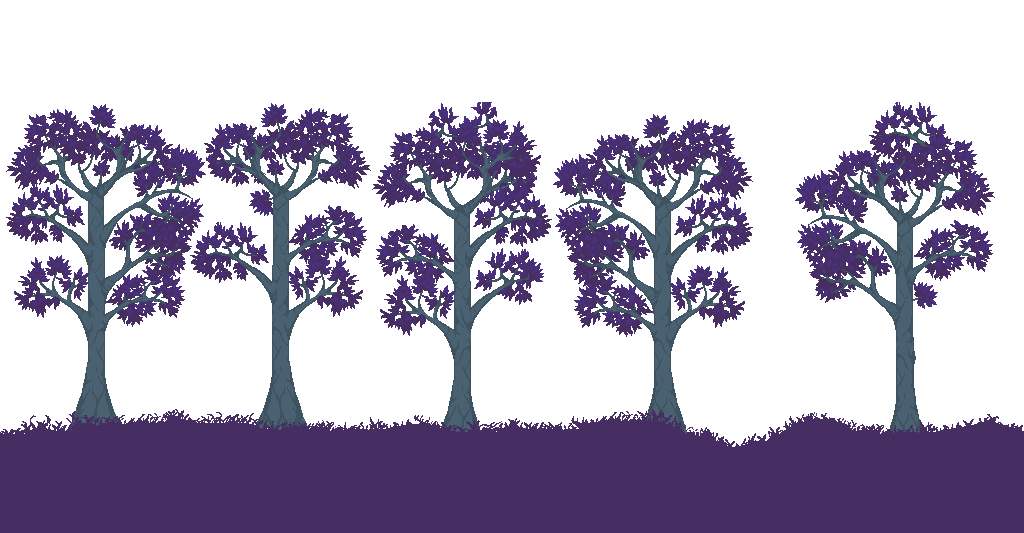
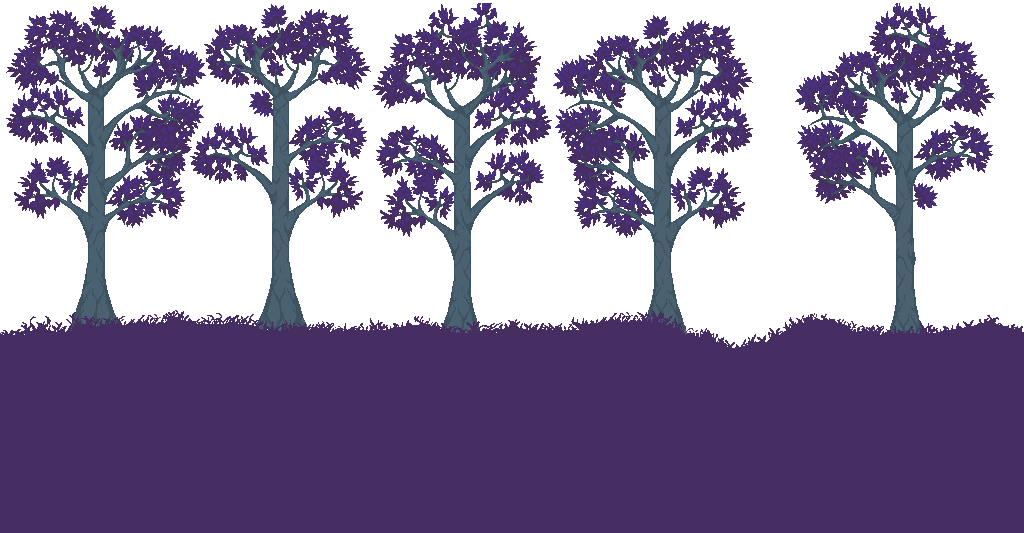
+ Chaos biome background adjustments

diff --git a/_Content/Inferno/World/Biomes/InfernoBiome.cs b/_Content/Inferno/World/Biomes/InfernoBiome.cs
@@ -3,15 +3,16 @@ using AAModClassic._Content.Inferno._PostMoonlord.NPCs.__BossAkuma;
 using AAModClassic._Content.Inferno._PostMoonlord.NPCs.__BossAkuma.Awakened;
 using AAModClassic._Content.Inferno._PostMoonlord.NPCs.__BossAkuma.Awakened.Skies;
 using AAModClassic._Content.Inferno.World.Biomes.Waters;
-using AAModClassic._Content.Mire._PostMoonlord.NPCs.__BossYamata.Awakened.Skies;
 using AAModClassic.Base.BaseMod.Base;
 using AAModClassic.Music;
 using Microsoft.Xna.Framework;
 using Microsoft.Xna.Framework.Graphics;
 using ReLogic.Content;
 using System;
+using System.Reflection;
 using Terraria;
 using Terraria.GameContent;
+using Terraria.GameInput;
 using Terraria.Graphics.Effects;
 using Terraria.Graphics.Shaders;
 using Terraria.ModLoader;
@@ -24,6 +25,15 @@ namespace AAModClassic._Content.Inferno.World.Biomes
         public override string MapBackground => "AAModClassic/_Content/Inferno/World/Biomes/Backgrounds/InfernoMap";
 
         public override string BackgroundPath => "AAModClassic/_Content/Inferno/World/Biomes/Backgrounds/InfernoMap";
+
+        internal static FieldInfo BackgroundTopY = null;
+
+        public override void Load()
+        {
+            var field = typeof(Main).GetField("bgTopY", BindingFlags.Instance | BindingFlags.NonPublic);
+            if (field != null)
+                BackgroundTopY = field;
+        }
 
         public override bool IsBiomeActive(Player player)
         {
@@ -312,17 +322,99 @@ namespace AAModClassic._Content.Inferno.World.Biomes
 
         public override int ChooseFarTexture()
         {
-            return BackgroundTextureLoader.GetBackgroundSlot(Mod, "_Content/Inferno/World/Biomes/Backgrounds/InfernoBG");
+            return -1;// BackgroundTextureLoader.GetBackgroundSlot(Mod, "_Content/Inferno/World/Biomes/Backgrounds/InfernoBG");
         }
 
         public override int ChooseCloseTexture(ref float scale, ref double parallax, ref float a, ref float b)
         {
-            return base.ChooseCloseTexture(ref scale, ref parallax, ref a, ref b);
+            return BackgroundTextureLoader.GetBackgroundSlot(Mod, "_Content/Inferno/World/Biomes/Backgrounds/InfernoBG");
         }
 
         public override int ChooseMiddleTexture()
         {
-            return base.ChooseMiddleTexture();
+            return -1;//BackgroundTextureLoader.GetBackgroundSlot(Mod, "_Content/Inferno/World/Biomes/Backgrounds/InfernoBG");
+        }
+
+        public override bool PreDrawCloseBackground(SpriteBatch spriteBatch)
+        {
+            float num = Math.Min(PlayerInput.RealScreenHeight, Main.LogicCheckScreenHeight);
+            float num2 = Main.screenPosition.Y + (float)(Main.screenHeight / 2) - num / 2f;
+            float scAdj = (float)(Main.worldSurface * 16.0) / (num2 + num);
+            float num3 = (float)Main.maxTilesY * 0.15f * 16f;
+            num3 -= num2;
+            if (num3 < 0f)
+                num3 = 0f;
+
+            num3 *= 0.00025f;
+            float num4 = num3 * num3;
+            scAdj *= 0.45f - num4;
+            if (Main.maxTilesY <= 1200)
+                scAdj *= -500f;
+            else if (Main.maxTilesY <= 1800)
+                scAdj *= -300f;
+            else
+                scAdj *= -150f;
+
+            float screenOff = Main.screenHeight - 600f;
+
+            int textureSlot = BackgroundTextureLoader.GetBackgroundSlot(AAMod.instance, "_Content/Inferno/World/Biomes/Backgrounds/InfernoBG");
+
+            if (textureSlot < 0 || textureSlot >= TextureAssets.Background.Length)
+            {
+                return false;
+            }
+
+            double surface = Main.worldSurface == 0 ? 1 : Main.worldSurface;
+            float numagicNumberSetup = Main.screenPosition.Y + (float)(Main.screenHeight / 2) - 600f;
+            double backgroundTopMagicNumber = (0f - numagicNumberSetup + screenOff / 2f) / (surface * 16f);
+
+            int pushBGTopHack = Main.gameMenu ? 180 : 0;
+            int bump = 30;
+            if (Main.gameMenu)
+                bump = 0;
+
+            if (WorldGen.drunkWorldGen)
+                bump = -180;
+            pushBGTopHack += bump;
+
+            //Custom: bgScale, textureslot, patallaz, these 2 numbers...., Top and Start?
+            Main.instance.LoadBackground(textureSlot);
+
+            float bgScale = 1.85f * 2;
+
+            double bgParallax = 0.15;
+            int bgWidthScaled = (int)(382 * bgScale);
+            int bgStartX = (int)(-Math.IEEERemainder((double)Main.screenPosition.X * bgParallax, bgWidthScaled) - (double)(bgWidthScaled / 2));
+            if (bgWidthScaled == 0)
+                bgWidthScaled = 1024;
+
+            int bgLoops = Main.screenWidth / bgWidthScaled + 2;
+
+            bgScale = 1f;
+            int bgTopY = (int)(backgroundTopMagicNumber * 1300.0 + 1090.0) + (int)scAdj + pushBGTopHack;
+            if (Main.gameMenu)
+                bgTopY = 100 + pushBGTopHack;
+
+            bgTopY -= 40;
+
+            if (Main.screenPosition.Y >= Main.worldSurface * 16.0 + 16.0)
+                return false;
+
+            for (int k = 0; k < bgLoops; k++)
+            {
+                spriteBatch.Draw(
+                    TextureAssets.Background[textureSlot].Value,
+                    new Vector2(bgStartX + bgWidthScaled * k, bgTopY),
+                    new Rectangle(0, 0, Main.backgroundWidth[textureSlot], Main.backgroundHeight[textureSlot]),
+                    Main.ColorOfTheSkies * Main.bgAlphaFarBackLayer[Slot],
+                    0f,
+                    default,
+                    bgScale,
+                    SpriteEffects.None,
+                    0f
+                );
+            }
+            return false;
         }
     }
 

diff --git a/_Content/Mire/World/Biomes/MireBiome.cs b/_Content/Mire/World/Biomes/MireBiome.cs
@@ -11,6 +11,7 @@ using ReLogic.Content;
 using System;
 using Terraria;
 using Terraria.GameContent;
+using Terraria.GameInput;
 using Terraria.Graphics.Effects;
 using Terraria.Graphics.Shaders;
 using Terraria.ID;
@@ -184,7 +185,7 @@ namespace AAModClassic._Content.Mire.World.Biomes
 
     public class MireSurfaceBgStyle : ModSurfaceBackgroundStyle
     {
-        readonly ScreenFog mireBGFog = new ScreenFog(true);
+        readonly ScreenFog mireBGFog = new(true);
 
         public override void ModifyFarFades(float[] fades, float transitionSpeed)
         {
@@ -211,11 +212,11 @@ namespace AAModClassic._Content.Mire.World.Biomes
 
         public override int ChooseFarTexture()
         {
-            return BackgroundTextureLoader.GetBackgroundSlot(Mod, "_Content/Mire/World/Biomes/Backgrounds/MireBiome_SurfaceBackground");
+            return -1;// BackgroundTextureLoader.GetBackgroundSlot(Mod, "_Content/Mire/World/Biomes/Backgrounds/MireBiome_SurfaceBackground");
         }
         public override int ChooseMiddleTexture()
         {
-            return BackgroundTextureLoader.GetBackgroundSlot(Mod, "_Content/Mire/World/Biomes/Backgrounds/MireBiome_SurfaceForeground2");
+            return -1;// BackgroundTextureLoader.GetBackgroundSlot(Mod, "_Content/Mire/World/Biomes/Backgrounds/MireBiome_SurfaceBackground");
         }
         public override int ChooseCloseTexture(ref float scale, ref double parallax, ref float a, ref float b)
         {
@@ -231,7 +232,90 @@ namespace AAModClassic._Content.Mire.World.Biomes
 
             mireBGFog.Update(ModContent.Request<Texture2D>("AAModClassic/_Content/Mire/World/Biomes/Backgrounds/FogTex").Value);
             mireBGFog.Draw(ModContent.Request<Texture2D>("AAModClassic/_Content/Mire/World/Biomes/Backgrounds/FogTex").Value, true, YamataA ? YamataFog : DefaultFog);
-            return !Main.dayTime;
+            
+            if(!Main.dayTime)
+            {
+                float num = Math.Min(PlayerInput.RealScreenHeight, Main.LogicCheckScreenHeight);
+                float num2 = Main.screenPosition.Y + (float)(Main.screenHeight / 2) - num / 2f;
+                float scAdj = (float)(Main.worldSurface * 16.0) / (num2 + num);
+                float num3 = (float)Main.maxTilesY * 0.15f * 16f;
+                num3 -= num2;
+                if (num3 < 0f)
+                    num3 = 0f;
+
+                num3 *= 0.00025f;
+                float num4 = num3 * num3;
+                scAdj *= 0.45f - num4;
+                if (Main.maxTilesY <= 1200)
+                    scAdj *= -500f;
+                else if (Main.maxTilesY <= 1800)
+                    scAdj *= -300f;
+                else
+                    scAdj *= -150f;
+
+                float screenOff = Main.screenHeight - 600f;
+
+                int textureSlot = BackgroundTextureLoader.GetBackgroundSlot(AAMod.instance, "_Content/Mire/World/Biomes/Backgrounds/MireBiome_SurfaceBackground");
+
+                if (textureSlot < 0 || textureSlot >= TextureAssets.Background.Length)
+                {
+                    return false;
+                }
+
+                double surface = Main.worldSurface == 0 ? 1 : Main.worldSurface;
+                float numagicNumberSetup = Main.screenPosition.Y + (float)(Main.screenHeight / 2) - 600f;
+                double backgroundTopMagicNumber = (0f - numagicNumberSetup + screenOff / 2f) / (surface * 16f);
+
+                int pushBGTopHack = Main.gameMenu ? 180 : 0;
+                int bump = 30;
+                if (Main.gameMenu)
+                    bump = 0;
+
+                if (WorldGen.drunkWorldGen)
+                    bump = -180;
+                pushBGTopHack += bump;
+
+                Main.instance.LoadBackground(textureSlot);
+
+                float bgScale = 1.85f * 2;
+
+                double bgParallax = 0.15;
+                int bgWidthScaled = (int)(430 * bgScale);
+                int bgStartX = (int)(-Math.IEEERemainder((double)Main.screenPosition.X * bgParallax, bgWidthScaled) - (double)(bgWidthScaled / 2));
+                if (bgWidthScaled == 0)
+                    bgWidthScaled = 1024;
+
+                int bgLoops = Main.screenWidth / bgWidthScaled + 2;
+
+                bgScale = 1f;
+                int bgTopY = (int)(backgroundTopMagicNumber * 1300.0 + 1090.0) + (int)scAdj + pushBGTopHack;
+                if (Main.gameMenu)
+                    bgTopY = 60 + pushBGTopHack;
+                else
+                    bgTopY += 360;
+
+                if (Main.screenPosition.Y >= Main.worldSurface * 16.0 + 16.0)
+                    return false;
+
+                for (int k = 0; k < bgLoops; k++)
+                {
+                    spriteBatch.Draw(
+                        TextureAssets.Background[textureSlot].Value,
+                        new Vector2(bgStartX + bgWidthScaled * k, bgTopY),
+                        new Rectangle(0, 0, Main.backgroundWidth[textureSlot], Main.backgroundHeight[textureSlot]),
+                        Main.ColorOfTheSkies * Main.bgAlphaFarBackLayer[Slot],
+                        0f,
+                        default,
+                        bgScale,
+                        SpriteEffects.None,
+                        0f
+                    );
+                }
+
+                return true;
+            }
+            
+            return false;
         }
     }
 
